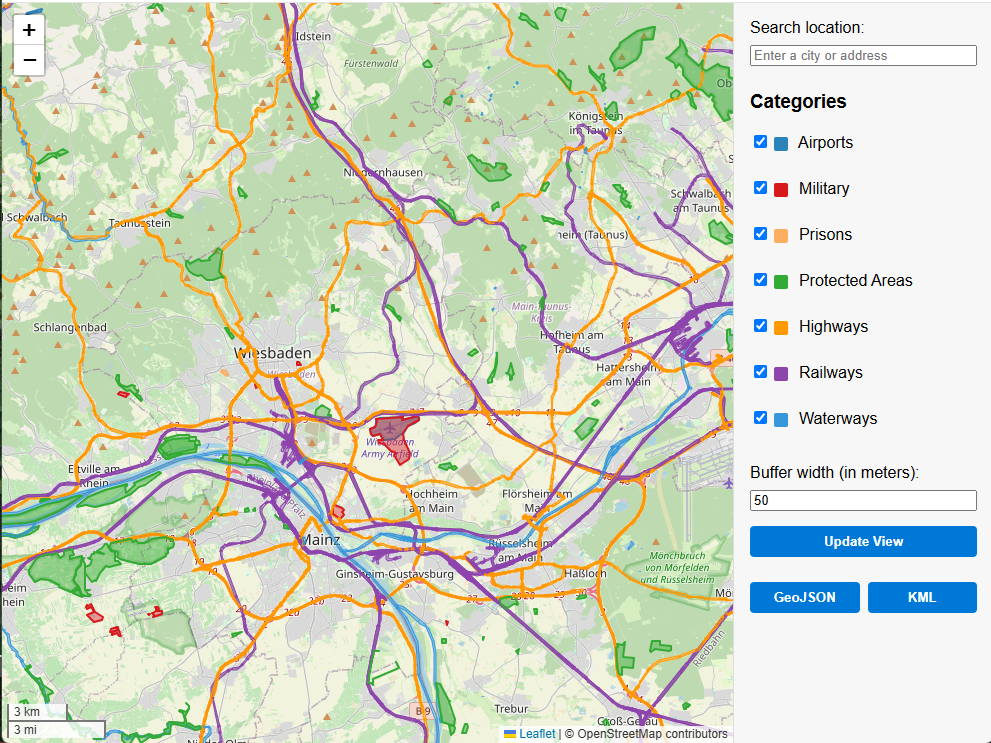
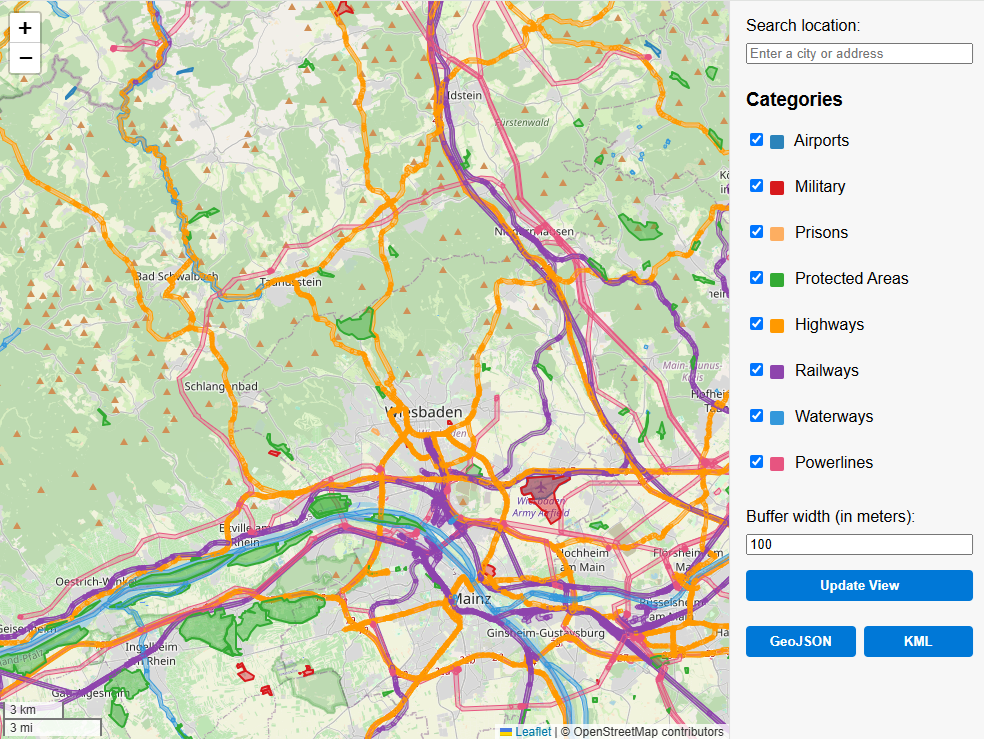
adapt documentation

diff --git a/README.md b/README.md
@@ -1,89 +1,75 @@
 # OSM No-Fly Zone Visualizer
 
-This project allows you to visualize and filter **drone no-fly zones** based on OpenStreetMap data, and export selected areas as GeoJSON files. It includes an interactive Leaflet map, a category-based filter interface, and a FastAPI backend for live GeoJSON generation based on the visible map area.
+This project allows you to visualize and filter **drone no-fly zones** based on OpenStreetMap data, and export selected areas as GeoJSON or KML files.  
+It includes an interactive Leaflet map, category-based filtering, adjustable buffer width, live data loading via FastAPI, and export functionality.
 
 ---
 
 ## ✨ Features
 
-- Interactive map with **no-fly zones** (airports, military areas, prisons, nature reserves, streets, railways)
-- Real-time filtering by category
-- **Dynamic GeoJSON or KML generation** based on map bounds
-- Download filtered zones as GeoJSON or KML
-- Compatible with tools like [FlightPlanEditor.de](https://www.flightplaneditor.de) from [Aerial Germany](https://aerial-germany.de)
+- Interactive map with **no-fly zones**:
+  - Airports
+  - Military areas
+  - Prisons
+  - Protected nature reserves
+  - Roads (motorways, primary roads)
+  - Railways
+  - Waterways (rivers, canals)
+  - **Powerlines (NEW!)**
+- **Adjustable buffer width** (default 100 meters) for linear features (roads, railways, waterways, powerlines)
+- **Search location** by typing a city/address and pressing **Enter**
+- **Loading overlay** while fetching and processing new data
+- **Dynamic GeoJSON or KML download** for currently visible map features
+- Works perfectly with tools like [FlightPlanEditor.de](https://www.flightplaneditor.de)
 
 ---
 
 ## 🚀 Setup Instructions
 
-### 1. Clone the repository
-
-```bash
-git clone https://github.com/aerialgermany/osm-noflyzones.git
-cd osm-noflyzones
-```
-
-### 2. Create a virtual environment (Python 3.9+ recommended)
-
-```bash
-python -m venv venv
-source venv/bin/activate        # on Linux/macOS
-venv\Scripts\activate.bat       # on Windows
-```
-
-### 3. Install the dependencies
-
-```bash
-pip install -r requirements.txt
-```
-
-> Requirements include:
-> - `fastapi`
-> - `uvicorn`
-> - `overpy`
-> - `geojson`
-> - `python-multipart`
-
-### 4. Start the FastAPI server
-
-```bash
-uvicorn main:app --reload
-```
-
-### 5. Open in your browser
-
-Visit [http://localhost:8000](http://localhost:8000)  
-You should see the interactive map interface with filter options.
+1. Clone or download this repository.
+2. Create and activate a virtual environment:
+   ```bash
+   python -m venv venv
+   source venv/bin/activate   # Linux/macOS
+   .\venv\Scripts\activate # Windows
+   ```
+3. Install the requirements:
+   ```bash
+   pip install -r requirements.txt
+   ```
+4. Start the FastAPI server:
+   ```bash
+   uvicorn main:app --reload
+   ```
+5. Open the app in your browser:
+   ```
+   http://localhost:8000
+   ```
 
 ---
 
 ## 📤 Export & Integration
 
-You can export the currently visible no-fly zones as a **filtered GeoJSON or KML file** and upload it into [FlightPlanEditor.de](https://www.flightplaneditor.de) from [Aerial Germany](https://aerial-germany.de) to use it in drone flight planning scenarios.
+- Download **GeoJSON** or **KML** files based on your current map selection.
+- Buffer zones are automatically created for roads, railways, waterways, and powerlines.
+- You can upload the exported files into [FlightPlanEditor.de](https://www.flightplaneditor.de) to plan and manage your drone missions.
+
+---
+
+## 🖼 Interface Preview
+
+![Screenshot](doc/screenshot.png)
 
 ---
 
 ## 📄 License
 
-This project is licensed under the **Apache License 2.0** – see [LICENSE](LICENSE) for details.
-
----
-
-## 💡 Credits
-
-Built with ❤ using:
-- [OpenStreetMap](https://www.openstreetmap.org)
-- [Leaflet.js](https://leafletjs.com/)
-- [FastAPI](https://fastapi.tiangolo.com)
-
+Licensed under the [Apache License 2.0](LICENSE).
 
 ---
 
 ## ⚠ Disclaimer
 
-The data visualized and exported through this tool is based on OpenStreetMap and publicly available sources.  
-**It does not constitute legally binding or official no-fly zone information.**  
-No liability is assumed for the accuracy, completeness, or legal applicability of the displayed data.
-
-📌 **Always consult your local aviation authority or competent government agencies** for current and legally binding airspace and no-fly zone regulations before conducting drone operations.
-
+This tool provides **unofficial, non-binding information**.  
+Always consult your **local aviation authority** for official and legally binding no-fly zone data.  
+**No liability** is assumed for the correctness or completeness of the displayed data.

diff --git a/doc/USER_GUIDE.md b/doc/USER_GUIDE.md
@@ -7,22 +7,32 @@ This interactive web application helps you visualize and export potential drone 
 ## 🚀 Getting Started
 
 1. Open the application in your browser: `http://localhost:8000`
-2. Use the **category checkboxes** on the right to show/hide types of restricted areas:
+2. Use the **category checkboxes** on the right to show or hide types of restricted areas:
    - Airports
    - Military zones
    - Prisons
    - Protected areas
-   - Roads, Railways, Waterways (with buffer distance)
+   - Roads (Highways)
+   - Railways
+   - Waterways
+   - Powerlines
 
-3. Use the **Search Location** field to jump to any place by name (e.g. `Berlin` or `Tokyo`).
-4. Adjust the **buffer width** (in meters) for roads, railways, and waterways.
+3. Use the **Search Location** field to jump to any place by typing a city or address and pressing **Enter**.
+
+4. Adjust the **buffer width** (in meters) for:
+   - Roads
+   - Railways
+   - Waterways
+   - Powerlines
+
+   The default buffer width is **100 meters**, but you can customize it.
 
 ---
 
 ## 💾 Export Data
 
 - Use the **GeoJSON** or **KML** buttons to download the currently visible and selected zones.
-- Exported zones match exactly what is shown on the map (with buffer polygons).
+- Exported data exactly matches what is shown on the map (including buffered polygons for linear features).
 
 ---
 
@@ -32,8 +42,16 @@ This interactive web application helps you visualize and export potential drone 
 
 ---
 
+## ⏳ Loading Overlay
+
+- When loading new data, a **loading screen** appears.
+- It disappears automatically when the update is complete.
+
+---
+
 ## ℹ Notes
 
-- Buffering is applied only to roads, railways, and waterways.
-- Map updates are limited to areas smaller than 200 km in width.
-- Always verify with official local authorities for legal restrictions.
+- Buffering is only applied to linear features (roads, railways, waterways, powerlines).
+- Map updates are limited to areas smaller than **200 km** in width.
+- Always verify drone restrictions with **official local aviation authorities**.
+- This tool provides **unofficial information** and no liability is assumed.
